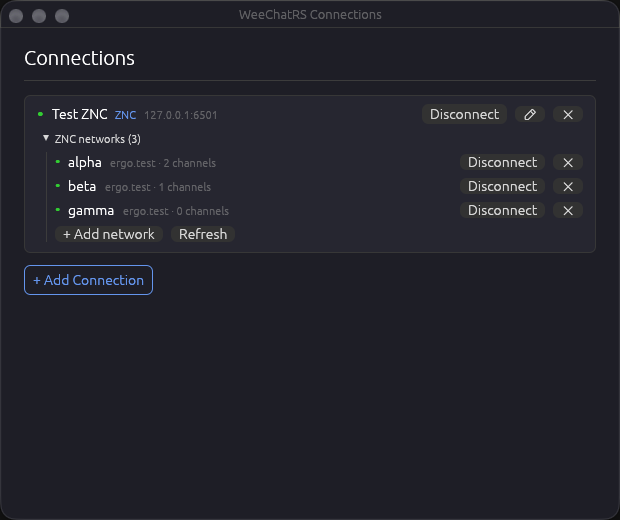
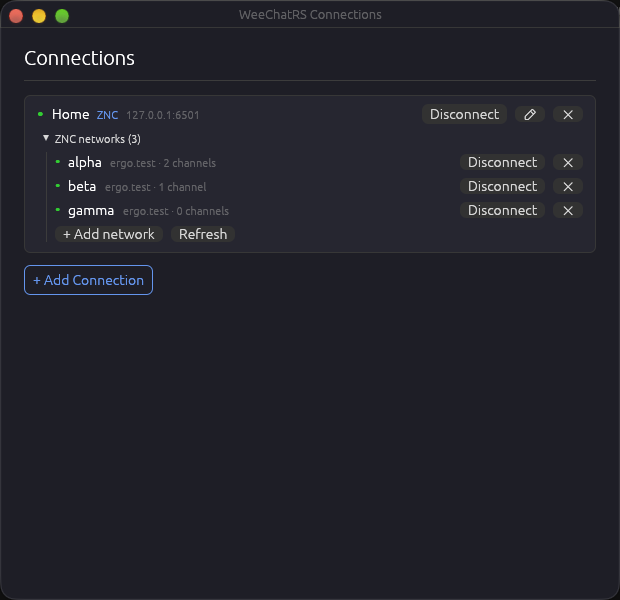
docs: current Connections screenshots, and a window the IRC form fits
New screenshots of the IRC and WeeChat connection forms and the ZNC
networks panel; the IRC one shows the ZNC username hint, and its
caption explains user and user/network. The Connections window opens
600 high instead of 520, so the IRC form's Save button shows without
scrolling.

diff --git a/src/ui/settings.rs b/src/ui/settings.rs
@@ -145,7 +145,8 @@ fn theme_chip(ui: &mut egui::Ui, theme: &AppTheme, selected: bool) -> egui::Resp
 
 const DEFAULT_CHAT_FONT: &str = "Default (JetBrains Mono)";
 const SETTINGS_SIZE: [f32; 2] = [760.0, 560.0];
-const CONNECTIONS_SIZE: [f32; 2] = [620.0, 520.0];
+// Tall enough for the whole IRC connection form, Save button included.
+const CONNECTIONS_SIZE: [f32; 2] = [620.0, 600.0];
 
 impl WeeChatApp {
     fn settings_viewport_id() -> ViewportId { ViewportId::from_hash_of("weechatrs_settings") }

diff --git a/README.md b/README.md
@@ -93,7 +93,7 @@ Default shortcuts — all are rebindable in **Settings → Keybinds**.
 *WeeChat Relay connection — host, port, password, SSL toggle, and optional SSH tunnel*
 
 ![IRC connection dialog](screenshots/connection_irc.png)
-*Direct IRC/soju connection — server, port, nick, SASL auth, and TLS options*
+*IRC, soju or ZNC connection — server, port, nick, username (for ZNC: `user` for all networks, `user/network` for one), SASL auth, and TLS options*
 
 ![ZNC networks in the Connections window](screenshots/connections_znc.png)
 *A ZNC connection — the user's networks with their state, and buttons to add, remove, connect and disconnect them*
